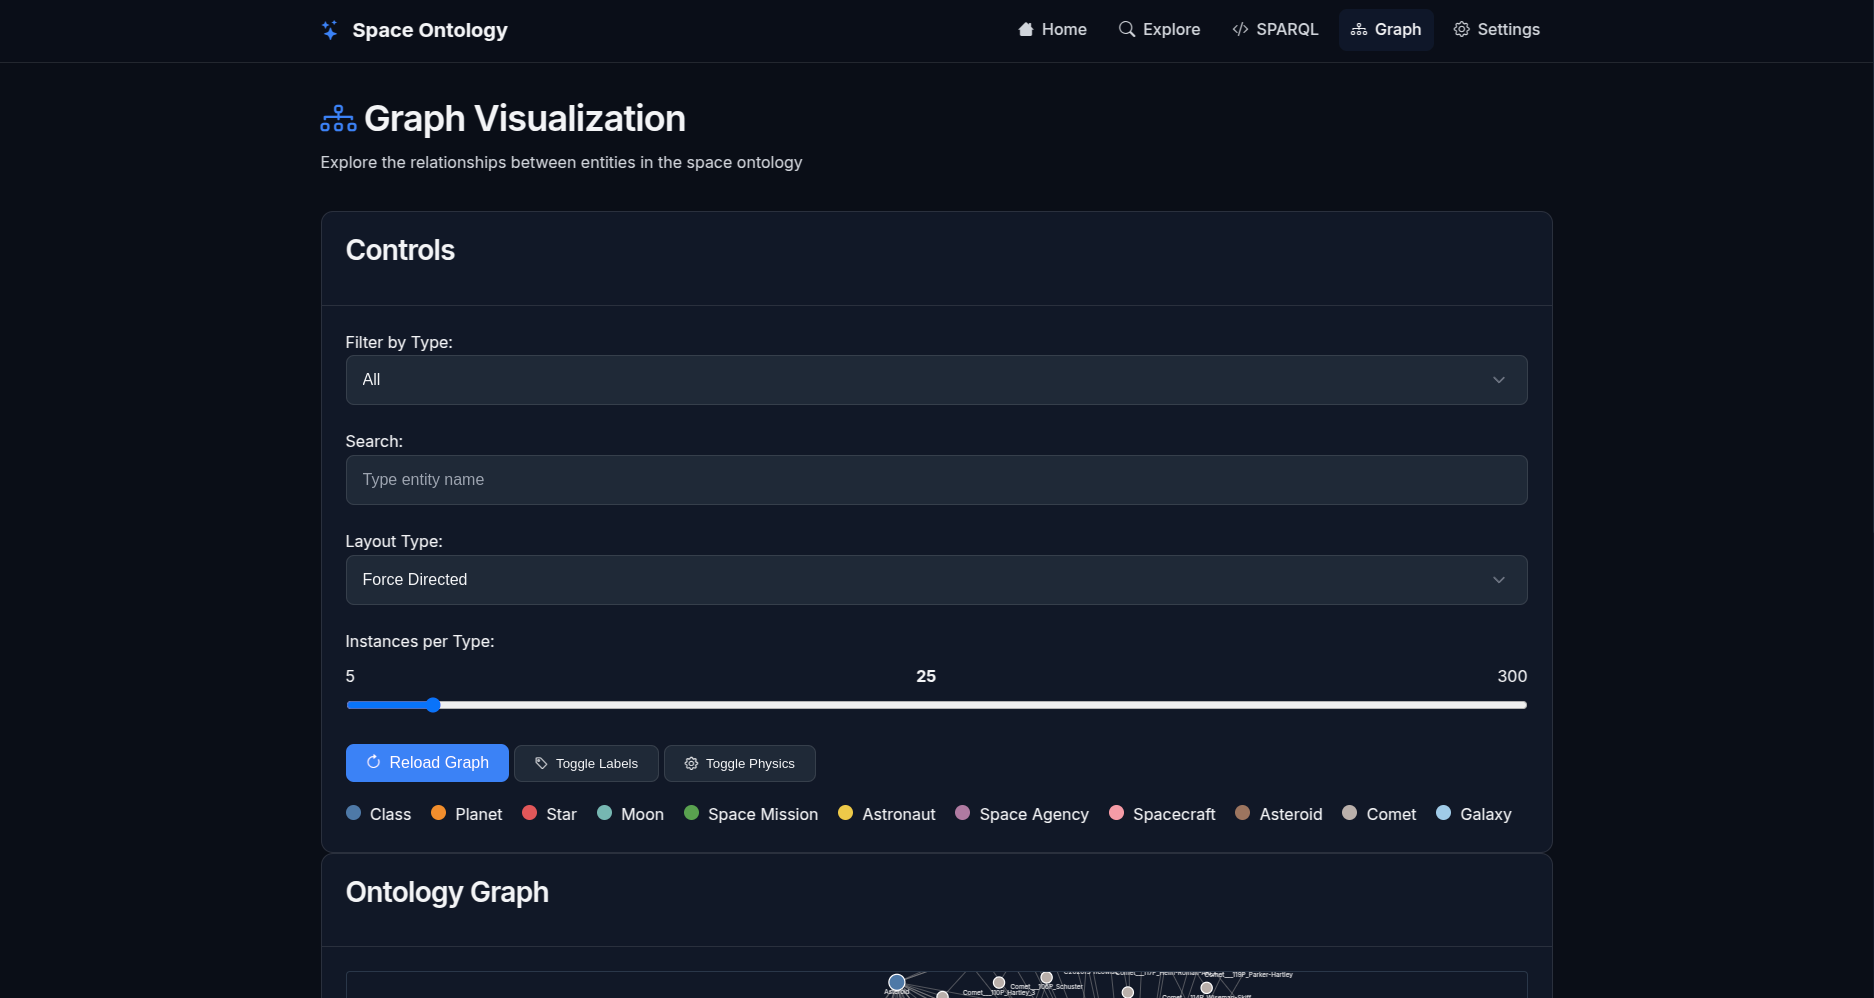
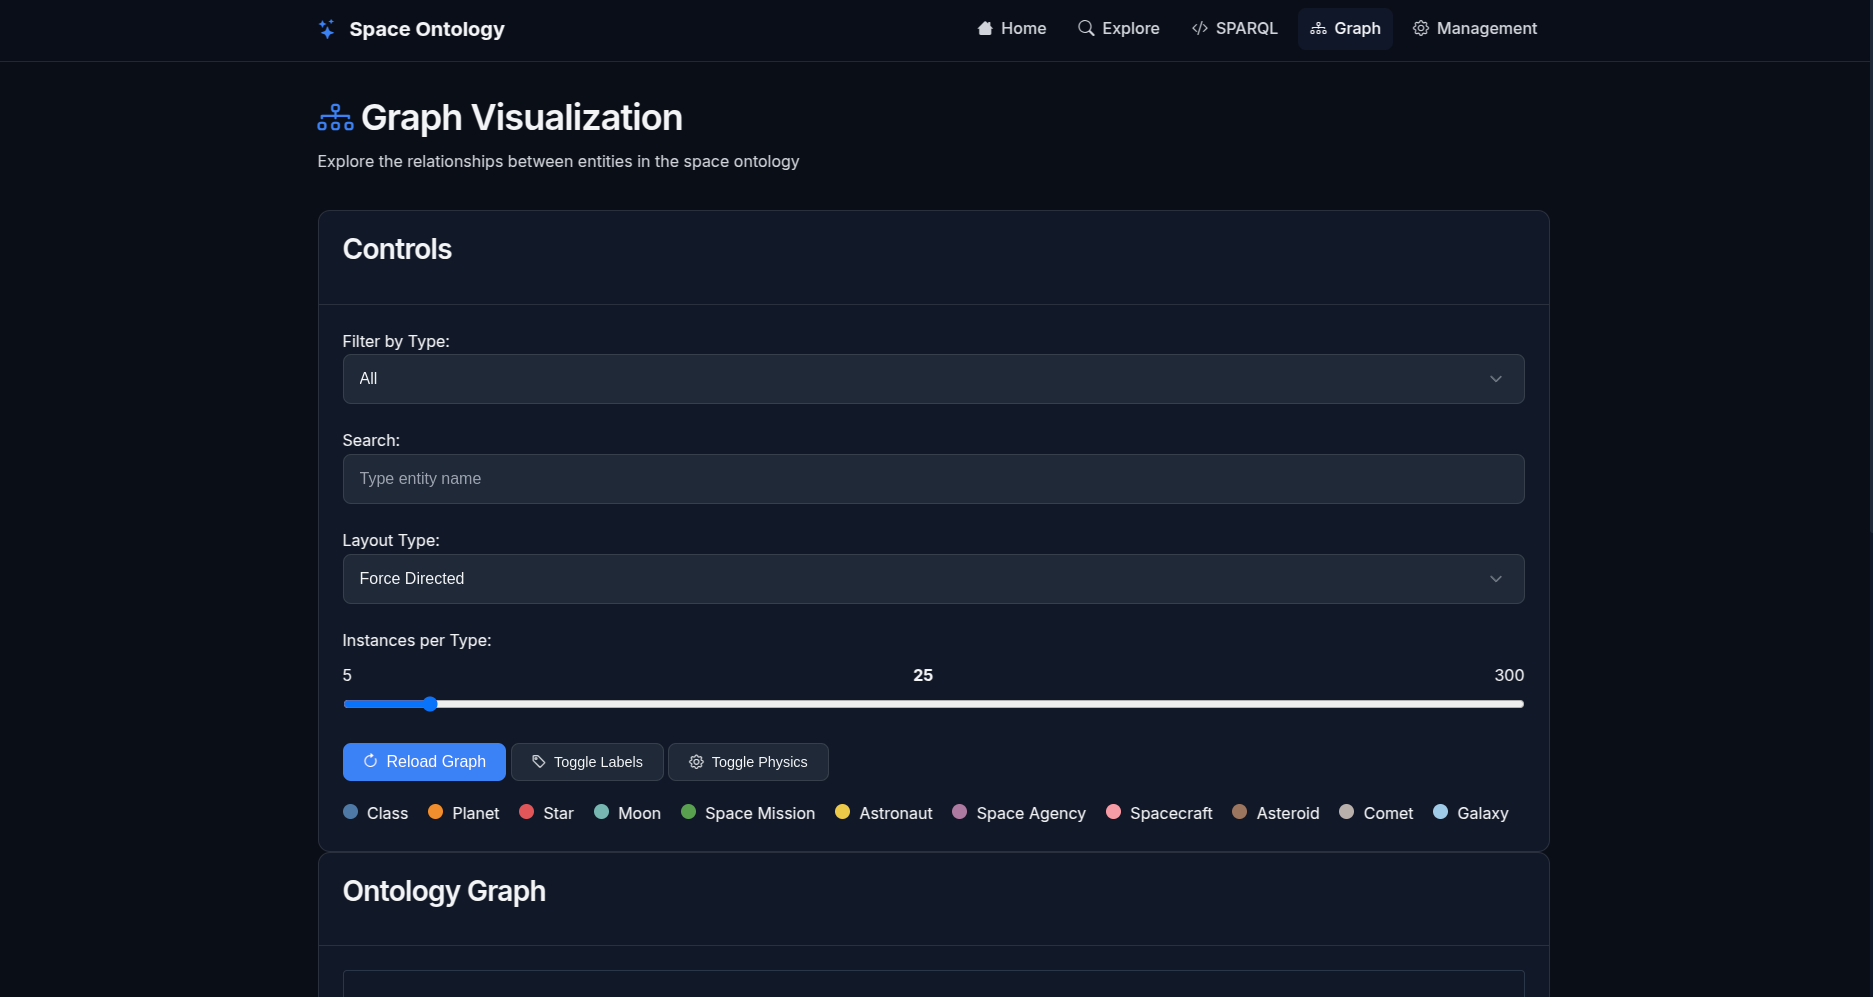
refactor: readme

diff --git a/README.md b/README.md
@@ -8,57 +8,127 @@ This project is part of the RPCW (Representation and Processing of Knowledge on 
 
 1. [Tools Used](#tools-used)
 2. [Development Strategy](#development-strategy)
-3. [Features](#features)
-4. [Pages Overview](#pages-overview)
-5. [Dependencies](#dependencies)
-6. [How to Run](#how-to-run)
-7. [Start Guide](#start-guide)
-8. [Authors](#authors)
+3. [Technical Implementation](#technical-implementation)
+4. [Features](#features)
+5. [Pages Overview](#pages-overview)
+6. [Dependencies](#dependencies)
+7. [How to Run](#how-to-run)
+8. [Start Guide](#start-guide)
+9. [Authors](#authors)
 
 ---
 
 ## Tools Used
 
-* **Python 3.10+** — Main language for scripting, data processing, and ontology population.
-* **RDFlib** — Python library for manipulating RDF graphs and serializing in Turtle format.
-* **Requests** — Python library for making HTTP calls to external APIs (NASA, SpaceX, Wikipedia, etc).
-* **Flask** — Web framework for the application's interface.
-* **GraphDB** — Triplestore for storing and querying the ontology using SPARQL.
-* **HTML/CSS/JavaScript** — For the application’s frontend, with Bootstrap Icons and CodeMirror for query editing.
-* **External APIs** — NASA, SpaceX, Wikipedia, JPL Small-Body Database, Solar System OpenData.
+- **Python 3.10+** — Main language for scripting, data processing, and ontology population.
+- **RDFlib** — Python library for manipulating RDF graphs and serializing in Turtle format.
+- **Requests** — Python library for making HTTP calls to external APIs (NASA, SpaceX, Wikipedia, etc).
+- **Flask** — Web framework for the application's interface.
+- **GraphDB** — Triplestore for storing and querying the ontology using SPARQL.
+- **SPARQLWrapper** — Python library for executing SPARQL queries against GraphDB endpoints.
+- **HTML/CSS/JavaScript** — For the application's frontend, with Bootstrap Icons and CodeMirror for query editing.
+- **D3.js** — JavaScript library for creating interactive graph visualizations.
+- **External APIs** — NASA, SpaceX, Wikipedia, JPL Small-Body Database, Solar System OpenData.
 
 ## Development Strategy
 
 1. **Ontology Modeling**
 
-   * Analysis of the problem domain (space exploration) and identification of key entities: celestial bodies, space missions, astronauts, agencies, spacecraft, etc.
-   * Definition of relevant classes, properties, and relationships, following best modeling practices in OWL/RDF.
-   * Implementation of the ontology's base structure in Python, using the RDFlib library to ensure flexibility and easy maintenance.
+   - Analysis of the problem domain (space exploration) and identification of key entities: celestial bodies, space missions, astronauts, agencies, spacecraft, etc.
+   - Definition of relevant classes, properties, and relationships, following best modeling practices in OWL/RDF.
+   - Implementation of the ontology's base structure in Python, using the RDFlib library to ensure flexibility and easy maintenance.
 
 2. **Automatic Ontology Population**
 
-   * Collection of real data from public APIs (NASA, SpaceX, Wikipedia, JPL Small-Body Database, Solar System OpenData).
-   * Conversion of the collected data into ontology instances, automatically creating entities and relationships among them.
+   - Collection of real data from public APIs (NASA, SpaceX, Wikipedia, JPL Small-Body Database, Solar System OpenData).
+   - Conversion of the collected data into ontology instances, automatically creating entities and relationships among them.
 
 3. **Persistence and Querying**
 
-   * Serialization of the ontology into a Turtle (`.ttl`) file to facilitate sharing and reuse.
-   * Integration with GraphDB for persistent storage and efficient execution of SPARQL queries.
-   * Implementation of SPARQL queries for exploration, validation, and knowledge extraction from the ontology.
+   - Serialization of the ontology into a Turtle (`.ttl`) file to facilitate sharing and reuse.
+   - Integration with GraphDB for persistent storage and efficient execution of SPARQL queries.
+   - Implementation of SPARQL queries for exploration, validation, and knowledge extraction from the ontology.
 
 4. **Web Application Development**
 
-   * Creation of an intuitive web interface using Flask, allowing users to explore, search, and query the ontology.
-   * Implementation of features for importing/exporting ontologies, executing custom SPARQL queries, and visualizing relationships through interactive graphical formats.
-   * Use of HTML, CSS, and JavaScript to deliver a modern and responsive user experience.
+   - Creation of an intuitive web interface using Flask, allowing users to explore, search, and query the ontology.
+   - Implementation of features for importing/exporting ontologies, executing custom SPARQL queries, and visualizing relationships through interactive graphical formats.
+   - Use of HTML, CSS, and JavaScript to deliver a modern and responsive user experience.
 
 5. **Testing and Validation**
 
-   * Execution of manual and automated tests to ensure data integrity and the correct functioning of queries.
-   * Iterative adjustments to ontology modeling and population scripts based on test results and user feedback.
-   * Continuous validation of GraphDB integration and the web interface.
+   - Execution of manual and automated tests to ensure data integrity and the correct functioning of queries.
+   - Iterative adjustments to ontology modeling and population scripts based on test results and user feedback.
+   - Continuous validation of GraphDB integration and the web interface.
 
 This approach ensures a robust, scalable, and user-friendly solution for representing and exploring knowledge in the space domain.
+
+## Technical Implementation
+
+### Architecture Overview
+
+The system follows a modular architecture with clear separation of concerns:
+
+- **Backend Layer**: Flask web application serving as the main controller
+- **Data Layer**: GraphDB triplestore for persistent RDF storage
+- **Ontology Layer**: RDFlib-based ontology management and SPARQL query execution
+- **Frontend Layer**: Interactive web interface with dynamic visualizations
+
+### Core Components
+
+#### 1. Ontology Creator (`app/ontology/creator.py`)
+
+Responsible for building the space ontology structure and populating it with real-world data:
+
+- **Structure Creation**: Defines OWL classes (CelestialBody, Planet, Star, etc.) and properties (orbits, hasMoon, mass, etc.)
+- **Data Integration**: Fetches data from multiple APIs:
+  - Solar System OpenData API for planets and moons
+  - NASA APIs for asteroids, missions, and astronauts
+  - SpaceX API for commercial space missions
+  - JPL Small-Body Database for comets
+  - Wikipedia API for descriptive content
+- **RDF Generation**: Converts API data into RDF triples using proper URIs and datatypes
+
+#### 2. Query Engine (`app/ontology/queries.py`)
+
+Handles all SPARQL operations and data retrieval:
+
+- **Dual Mode Operation**: Supports both local RDFlib graphs and remote GraphDB endpoints
+- **Query Execution**: Processes SELECT, INSERT, DELETE, and CONSTRUCT queries
+- **Data Formatting**: Converts SPARQL results into JSON format for web consumption
+- **Relationship Mapping**: Extracts entity relationships for graph visualization
+
+#### 3. Web Interface (`app/routes.py`)
+
+Flask-based REST API providing endpoints for:
+
+- **Repository Management**: Create, configure, and manage GraphDB repositories
+- **Data Operations**: Import/export ontologies, execute SPARQL queries
+- **Entity Exploration**: Browse classes, instances, and individual entity details
+- **Visualization**: Generate graph data for D3.js visualizations
+
+#### 4. Frontend Components
+
+Interactive web pages built with modern web technologies:
+
+- **Graph Visualization**: D3.js force-directed graphs with filtering and search
+- **SPARQL Editor**: CodeMirror-based query editor with syntax highlighting
+- **Entity Browser**: Hierarchical navigation through ontology structure
+- **Management Interface**: GraphDB configuration and ontology lifecycle management
+
+### Data Flow
+
+1. **Ontology Creation**: Creator fetches external data → converts to RDF → stores in GraphDB
+2. **Query Processing**: User request → Flask route → Query engine → SPARQL execution → JSON response
+3. **Visualization**: Frontend requests graph data → Backend processes relationships → D3.js renders interactive graph
+4. **Entity Navigation**: User clicks entity → Detailed SPARQL query → Property/relationship display
+
+### Key Technical Decisions
+
+- **GraphDB Integration**: Chosen for its robust SPARQL 1.1 support and scalability
+- **RDFlib Compatibility**: Maintains local graph capability for development and testing
+- **API-First Design**: All data operations exposed as REST endpoints for flexibility
+- **Responsive Visualization**: Client-side rendering for smooth user interaction
 
 ## Features
 
@@ -66,21 +136,35 @@ This approach ensures a robust, scalable, and user-friendly solution for represe
 
   - Create and manage an ontology structure for space exploration.
   - Define classes, properties, and relationships between entities.
+  - Import/export ontologies in Turtle format.
 
 - **SPARQL Query Execution**:
 
   - Execute SPARQL queries to retrieve data from the ontology.
+  - Support for SELECT, INSERT, DELETE, and CONSTRUCT operations.
+  - Syntax highlighting and query validation.
 
 - **Graph Visualization**:
 
-  - Generate graph data for visualizing relationships between entities.
+  - Generate interactive graph visualizations of entity relationships.
+  - Filter by entity type and search functionality.
+  - Force-directed layout with customizable physics.
 
-- **Entity Search**:
+- **Entity Search and Exploration**:
 
   - Search for entities (e.g., astronauts, missions) by name.
+  - Browse ontology hierarchy by classes and instances.
+  - Detailed entity pages with properties and relationships.
 
-- **Statistics**:
-  - Retrieve statistics about the ontology, such as the number of classes, properties, and triples.
+- **Statistics and Analytics**:
+
+  - Retrieve statistics about the ontology (classes, properties, triples).
+  - Monitor repository status and data integrity.
+
+- **Repository Management**:
+  - Configure GraphDB connections and repositories.
+  - Create new repositories with optimized settings.
+  - Clear and reset repository data.
 
 ### Pages Overview
 
@@ -107,9 +191,19 @@ Below are brief descriptions of each page developed together with a screenshot:
    ![Graph Page 1](public/graph_page_1.png)
    ![Graph Page 2](public/graph_page_2.png)
 
-6. **Settings Page**  
-   Allows users to configure the application's persistence settings. Users can select the ontology file path and choose between using a local file or a GraphDB repository for storing the ontology.
-   ![Settings Page](public/settings_page.png)
+6. **Management Page**  
+   The Management Page allows users to manage the application's connection to GraphDB and perform ontology-related operations. Users can:
+
+   - Configure the GraphDB host, port, and repository.
+   - Test the connection to GraphDB.
+   - Create new repositories or select existing ones.
+   - Import ontology files into GraphDB.
+   - Export the ontology from GraphDB to a Turtle (`.ttl`) file.
+   - Create a base ontology populated with data from external APIs.
+   - Clear repository data.
+
+   ![Management Page](public/management_page.png)
+   ![Management Page 2](public/management_page_2.png)
 
 ---
 
@@ -121,33 +215,84 @@ The project dependencies are listed in the `requirements.txt` file. To install t
 pip install -r requirements.txt
 ```
 
+Key dependencies include:
+
+- `Flask` - Web framework
+- `rdflib` - RDF graph manipulation
+- `SPARQLWrapper` - SPARQL query execution
+- `requests` - HTTP API calls
+- `werkzeug` - WSGI utilities
+
 ## How to Run
 
-To start the application, simply run the `run.py` script using Python:
+### Prerequisites
+
+1. **Python 3.10+** installed on your system
+2. **GraphDB** server running (download from Ontotext)
+3. Internet connection for API data fetching
+
+### Installation Steps
+
+1. Clone the repository:
+
+```bash
+git clone <repository-url>
+cd RPCW_TP
+```
+
+2. Install dependencies:
+
+```bash
+pip install -r requirements.txt
+```
+
+3. Start GraphDB server (typically on port 7200)
+
+4. Run the application:
 
 ```bash
 python3 run.py
 ```
 
+5. Access the application at `http://localhost:5000`
 
 ## Start Guide
 
 This guide provides a quick sequence of steps to begin configuring and using the application.
 
-1. **Setup**  
-   Set up the connection to GraphDB and create the necessary repositories.
+### Step 1: Setup GraphDB Connection
 
-2. **Import**  
-   Import existing ontologies or create base ontologies to structure the data.
+1. Navigate to the **Management** page
+2. Configure GraphDB connection (default: localhost:7200)
+3. Test the connection to ensure GraphDB is accessible
+4. Create a new repository or select an existing one
 
-3. **Query**  
-   Use SPARQL queries to extract, modify, and manage the stored data.
+### Step 2: Create Base Ontology
 
-4. **Visualize**  
-   Explore the data and its relationships through interactive graphs to facilitate analysis.
+1. In the Management page, click "Create Base Ontology"
+2. Wait for the system to fetch data from external APIs
+3. The system will automatically populate the ontology with:
+   - Solar system planets and moons
+   - Thousands of exoplanets
+   - Space missions from NASA and SpaceX
+   - Astronauts and spacecraft
+   - Asteroids and comets
+
+### Step 3: Explore the Data
+
+1. Visit the **Explore** page to see ontology statistics
+2. Browse classes and instances
+3. Use the **Graph** page for visual exploration
+4. Try the **SPARQL** page for custom queries
+
+### Step 4: Query and Analyze
+
+1. Execute predefined SPARQL queries
+2. Create custom queries to extract specific information
+3. Use the entity pages to dive deep into individual objects
+4. Export data or ontology as needed
 
 It is essential to strictly follow steps 1 and 2 to ensure proper and effective setup of the application's working environment.
-
 
 ## Authors
 
